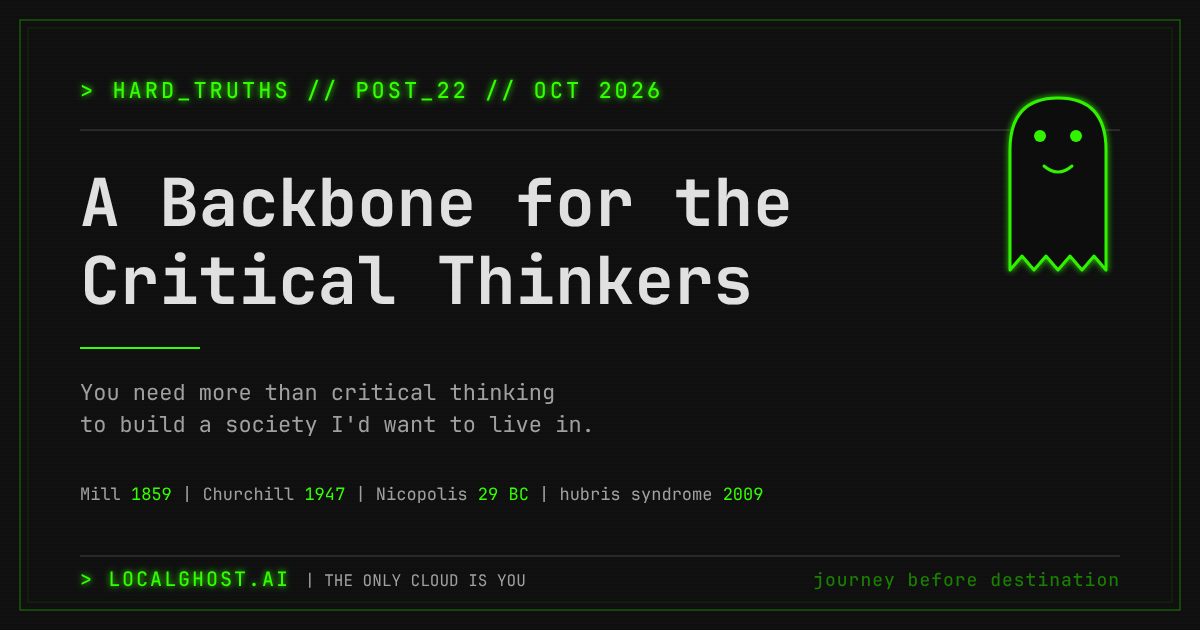
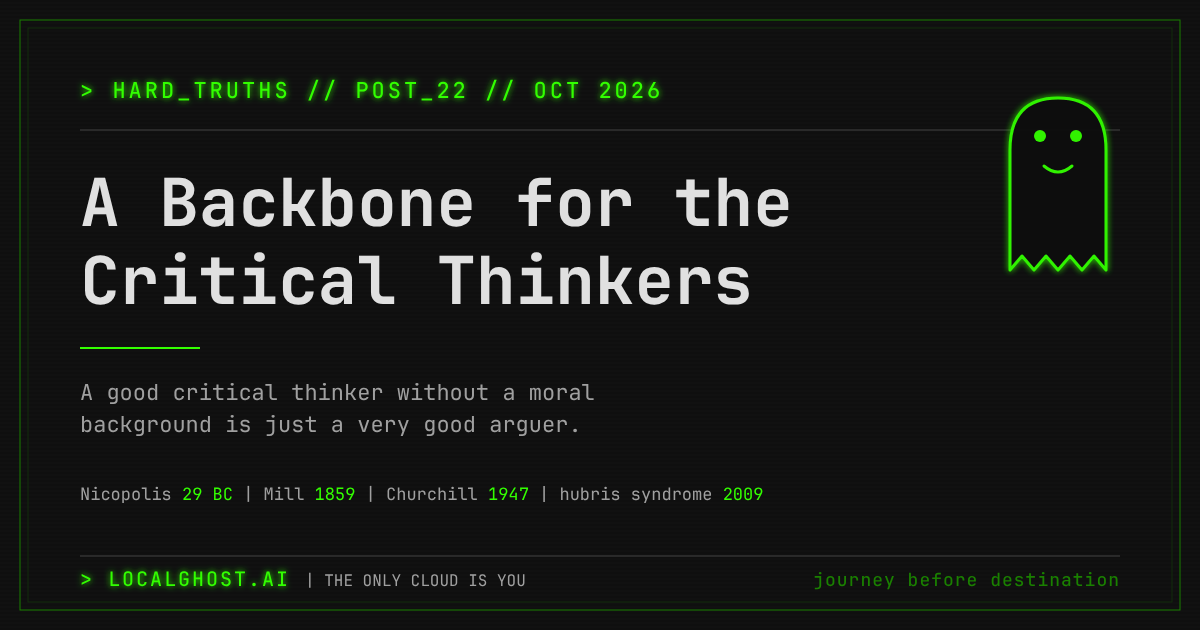
Critical thinkers 2

diff --git a/public/hard-truths/backbone-for-critical-thinkers.html b/public/hard-truths/backbone-for-critical-thinkers.html
@@ -4,10 +4,10 @@
     <meta charset="UTF-8">
     <meta name="viewport" content="width=device-width, initial-scale=1.0">
     <title>A Backbone for the Critical Thinkers | LocalGhost.ai</title>
-    <meta name="description" content="You need more than critical thinking to build a society I'd want to live in. How I want to treat people, where I draw the lines and how to live with it, with Mill, Churchill, Harari and the ruins of Nicopolis.">
+    <meta name="description" content="A good critical thinker without a moral background is just a very good arguer. Notes that started in the ruins of Nicopolis, on what a good dictator would look like and how a society would have to be structured so it didn't need one.">
     <meta name="author" content="Vlad Cealicu">
     <meta name="robots" content="index, follow, max-snippet:-1, max-image-preview:large, max-video-preview:-1">
-    <meta name="keywords" content="critical thinking, ethics, harm principle, democracy, benevolent dictatorship, hubris syndrome, human rights, LocalGhost, Hard Truths">
+    <meta name="keywords" content="critical thinking, ethics, Nicopolis, benevolent dictatorship, hubris syndrome, harm principle, democracy, human rights, five whys, LocalGhost, Hard Truths">
     <meta name="category" content="Society, AI">
     <meta name="language" content="en-GB">
     <link rel="canonical" href="https://www.localghost.ai/hard-truths/backbone-for-critical-thinkers">
@@ -15,7 +15,7 @@
     <meta property="og:type" content="article">
     <meta property="og:url" content="https://www.localghost.ai/hard-truths/backbone-for-critical-thinkers">
     <meta property="og:title" content="A Backbone for the Critical Thinkers | LocalGhost Hard Truths">
-    <meta property="og:description" content="You need more than critical thinking to build a society I'd want to live in. A benevolent dictatorship breaks when power accumulates, which it always tends to, and human rights exist because we want them to exist.">
+    <meta property="og:description" content="A good critical thinker without a moral background is just a very good arguer. A benevolent dictatorship breaks when power accumulates, which it always tends to, so how would a society have to be structured so it didn't need one?">
     <meta property="og:image" content="https://www.localghost.ai/images/og-backbone-for-critical-thinkers.png">
     <meta property="og:image:width" content="1200">
     <meta property="og:image:height" content="630">
@@ -27,16 +27,16 @@
     <meta property="article:section" content="Hard Truths">
     <meta property="article:tag" content="critical thinking">
     <meta property="article:tag" content="ethics">
+    <meta property="article:tag" content="dictatorship">
     <meta property="article:tag" content="democracy">
-    <meta property="article:tag" content="human rights">
     <meta property="article:tag" content="hubris">
     <meta property="article:tag" content="LocalGhost">
-    <meta property="article:reading_time" content="5">
+    <meta property="article:reading_time" content="9">
     <meta name="twitter:card" content="summary_large_image">
     <meta name="twitter:site" content="@localghostai">
     <meta name="twitter:creator" content="@vladcealicu">
     <meta name="twitter:title" content="A Backbone for the Critical Thinkers">
-    <meta name="twitter:description" content="You need more than critical thinking to build a society I'd want to live in. Asking why five times and spotting the leap in an argument make you a very good arguer, and the rest is closer to ethics.">
+    <meta name="twitter:description" content="A good critical thinker without a moral background is just a very good arguer. Notes that started in the ruins of Nicopolis, thinking about dictators.">
     <meta name="twitter:image" content="https://www.localghost.ai/images/og-backbone-for-critical-thinkers.png">
     <meta name="twitter:image:alt" content="A Backbone for the Critical Thinkers, LocalGhost Hard Truths">
     <meta name="fediverse:creator" content="@vladcealicu">
@@ -50,7 +50,7 @@
         "@context": "https://schema.org",
         "@type": "BlogPosting",
         "headline": "A Backbone for the Critical Thinkers",
-        "description": "You need more than critical thinking to build a society I'd want to live in. A benevolent dictatorship breaks when power accumulates, which it always tends to, and human rights exist because we want them to exist.",
+        "description": "A good critical thinker without a moral background is just a very good arguer. A benevolent dictatorship breaks when power accumulates, which it always tends to, so how would a society have to be structured so it didn't need one?",
         "author": {
             "@type": "Person",
             "@id": "https://www.localghost.ai/about#vlad-cealicu",
@@ -82,9 +82,9 @@
             "width": 1200,
             "height": 630
         },
-        "keywords": "critical thinking, ethics, harm principle, democracy, benevolent dictatorship, hubris syndrome, human rights, LocalGhost, Hard Truths",
+        "keywords": "critical thinking, ethics, Nicopolis, benevolent dictatorship, hubris syndrome, harm principle, democracy, human rights, five whys, LocalGhost, Hard Truths",
         "articleSection": "Hard Truths",
-        "wordCount": 906,
+        "wordCount": 1711,
         "inLanguage": "en-GB",
         "isPartOf": {
             "@id": "https://www.localghost.ai/hard-truths#blog"
@@ -126,6 +126,7 @@
         .backbone { margin: 1.25rem 0 1.75rem; padding-left: 0; list-style: none; counter-reset: bb; }
         .backbone li { counter-increment: bb; margin-bottom: 0.9rem; padding-left: 2.4rem; position: relative; line-height: 1.75; }
         .backbone li::before { content: counter(bb) "."; position: absolute; left: 0; top: 0.15rem; color: var(--terminal); font-family: var(--font-mono); font-size: 0.85rem; }
+        .backbone .why { display: block; margin-top: 0.4rem; color: var(--text-dim); }
     </style>
 </head>
 <body>
@@ -155,7 +156,7 @@
     <div class="manifesto-text">
 
         <div class="statement-box">
-            <p class="statement-main">You need more than critical thinking to build a society I'd want to live in.</p>
+            <p class="statement-main">A good critical thinker without a moral background is just a very good arguer.</p>
         </div>
 
         <div class="podcast-player"
@@ -182,59 +183,110 @@
         </div>
 
         <p>
-            When I wrote down what I mean by critical thinking for <a href="/hard-truths/age-that-needs-critical-thinkers">The Age That Needs Critical Thinkers</a>, I ended up with a long list, and most of it wasn't critical thinking at all. It only made sense to write when I realised that you need more than critical thinking to build a society I'd want to live in. Asking why five times and spotting the leap in an argument are ways to think, and on their own they make you a very good arguer. The rest is closer to ethics, or to a way to live in a world where fewer people go to church, be it lack of time or not believing, and where AI sits next to all of us while we think.
+            In September I was in Preveza, and I went to see the ruins of Nicopolis, the city Octavian founded to celebrate his win at Actium, a few years before he became Augustus, the first Roman emperor <a href="#ref-1" class="cite">[1]</a>. Walking around it I was thinking about dictators, and I started writing notes on what a good dictator would look like, then on how a society would have to be structured so it didn't need one, and on the morals that would hold it together.
         </p>
-        <h2 class="section-header">&gt; 1. How I want to treat people</h2>
-        <ol class="backbone">
-            <li>Kindness and charity.</li>
-            <li>A temporary fix with a long-term plan behind it that deals with the root cause.</li>
-            <li>Understanding that we succeed together, and that leaders wouldn't be leaders without everyone else working hard to make their vision real.</li>
-            <li>Treating other people with respect regardless of who they are, and doing to others as you'd want done to you, without necessarily going to church every week, or ever.</li>
-            <li>Avoiding, as much as possible, doing things that harm or disrupt other people, while giving them the privacy to do whatever they want in their own lives under the same rule. John Stuart Mill wrote it down in 1859, "the only purpose for which power can be rightfully exercised over any member of a civilised community, against his will, is to prevent harm to others" <a href="#ref-1" class="cite">[1]</a>.</li>
-            <li>Leaving room for people who argue for things completely against what you believe, and trusting that a society with a strong critical thinking backbone can choose correctly.</li>
-        </ol>
-        <h2 class="section-header">&gt; 2. Where I draw the lines</h2>
-        <ol class="backbone">
-            <li>Strong moral values, and an open mind that still has lines it won't cross.</li>
-            <li>Accepting that we need regulation to protect us from predatory practices while we build up our critical thinking.</li>
-            <li>On paper the best system of governance is a benevolent dictatorship, because it allows a quick response to a world that changes fast, but that's only because the general population was never expected to develop critical thinking and was expected to follow the rules. In real life it breaks when power accumulates, which it always tends to, sometimes within a few years and sometimes over a generation. A dictator ends up building their own dictator brain out of people who only tell them they're right (the AI version of the same loop is in <a href="/hard-truths/dictator-brain">How to Prevent Building Your Own Dictator Brain</a>). It's funny, because I was writing the notes for this in September in Preveza, which happens to be where Rome's emperors started. I went to see the ruins of Nicopolis, the city Octavian founded to celebrate his win at Actium, a few years before he became Augustus, the first of them <a href="#ref-2" class="cite">[2]</a>. Rome's five good emperors later handed power on by adoption until the fifth, Marcus Aurelius, left it to his son Commodus, whose reign is usually taken as the end of the Pax Romana <a href="#ref-3" class="cite">[3]</a>. It happens to elected leaders too. David Owen and Jonathan Davidson went through a hundred years of US presidents and UK prime ministers and suggested a name for what they found, hubris syndrome, "a disorder of the possession of power", particularly power "held for a period of years and with minimal constraint on the leader" <a href="#ref-4" class="cite">[4]</a>.</li>
-            <li>Choosing democracy anyway because, even with low critical thinking, it's still better in the long term. Churchill made the case for it in the House of Commons in 1947, "democracy is the worst form of Government except for all those other forms that have been tried from time to time", and presented it as something that had been said before <a href="#ref-5" class="cite">[5]</a>.</li>
-            <li>Human rights exist because we want them to exist. We believe in them because we choose to, and the choosing is what makes them real. Yuval Noah Harari puts it as "There are no gods in the universe, no nations, no money, no human rights, no laws, and no justice outside the common imagination of human beings" <a href="#ref-6" class="cite">[6]</a>.</li>
-        </ol>
-        <h2 class="section-header">&gt; 3. How to live with it</h2>
-        <ol class="backbone">
-            <li>Knowing that the world is broken, that it always has been and that your impact will be small, and still doing something.</li>
-            <li>Fighting when you know you're the underdog.</li>
-            <li>Trying, even though "you can be anything you put your mind to" is bullshit.</li>
-            <li>Working hard, knowing it's a big part of success but not the only part.</li>
-            <li>Knowing that sometimes your sacrifice is the best way forward, and knowing when to take a step back.</li>
-            <li>Finding meaning and joy in just existing, journey before destination, as the Knights Radiant swear in Brandon Sanderson's <em>The Way of Kings</em> <a href="#ref-7" class="cite">[7]</a>.</li>
-        </ol>
-        <h2 class="section-header">&gt; 4. Is this still critical thinking?</h2>
         <p>
-            Only some of this is critical thinking, and a lot of it is borrowed, from Mill, Churchill, Harari and the golden rule. I'm putting it together because I think it works better as one thing than as separate pieces.
+            I didn't know it would tie up with critical thinking until after I wrote <a href="/hard-truths/age-that-needs-critical-thinkers">The Age That Needs Critical Thinkers</a>. Reading the notes again, I realised that a good critical thinker without a moral background is just a very good arguer. Asking why five times and spotting the leap in an argument are ways to think, and they don't tell you what's worth arguing for. You need more than critical thinking to build a society I'd want to live in, and the rest of the notes are closer to ethics, or to a way to live in a world where fewer people go to church, be it lack of time or not believing, and where AI sits next to all of us while we think.
         </p>
+        <h2 class="section-header">&gt; What would a good dictator look like?</h2>
+        <p>
+            On paper the best system of governance is a benevolent dictatorship, because it allows a quick response to a world that changes fast, but that's only because the general population was never expected to develop critical thinking and was expected to follow the rules. The good dictator in my notes was kind, had strong moral values, and dealt with the root cause of a problem while a temporary fix held things together.
+        </p>
+        <p>
+            In real life it breaks when power accumulates, which it always tends to, sometimes within a few years and sometimes over a generation. A dictator ends up building their own dictator brain out of people who only tell them they're right (the AI version of the same loop is in <a href="/hard-truths/dictator-brain">How to Prevent Building Your Own Dictator Brain</a>). Rome's five good emperors handed power on by adoption until the fifth, Marcus Aurelius, left it to his son Commodus, whose reign is usually taken as the end of the Pax Romana <a href="#ref-2" class="cite">[2]</a>. It happens to elected leaders too. David Owen and Jonathan Davidson went through a hundred years of US presidents and UK prime ministers and suggested a name for what they found, hubris syndrome, "a disorder of the possession of power", particularly power "held for a period of years and with minimal constraint on the leader" <a href="#ref-3" class="cite">[3]</a>.
+        </p>
+        <p>
+            So the notes turned into how a society would have to be structured so it didn't need a dictator, good or bad, and most of what I'd wanted from the good one became things I'd want from everyone.
+        </p>
+        <h2 class="section-header">&gt; How I want to treat people</h2>
+        <ol class="backbone">
+            <li>Kindness and charity.
+                <span class="why">It costs very little, and most of the time it comes back. Charity is the same thing with time or money, for people you'll probably never meet, and a society where enough people do both needs a lot less from whoever is in charge.</span>
+            </li>
+            <li>A temporary fix with a long-term plan behind it that deals with the root cause.
+                <span class="why">Most problems need something done today, and a fix for today is fine as long as someone is working on why it happened. Without the plan you end up fixing the same thing every year, and the people paying for it stop believing anything will change.</span>
+            </li>
+            <li>Understanding that we succeed together, and that leaders wouldn't be leaders without everyone else working hard to make their vision real.
+                <span class="why">Nothing I planned at CryptoCompare would have shipped without the team that built it with me. A leader who forgets that starts to think the success is theirs alone, and that's where hubris starts.</span>
+            </li>
+            <li>Treating other people with respect regardless of who they are, and doing to others as you'd want done to you, without necessarily going to church every week, or ever.
+                <span class="why">The golden rule shows up in a lot of religions in one form or another, and you don't need to believe in any of them to see why it works. If enough of us treat people the way we'd want to be treated, we don't need someone above us to enforce it.</span>
+            </li>
+            <li>Avoiding, as much as possible, doing things that harm or disrupt other people, while giving them the privacy to do whatever they want in their own lives under the same rule. John Stuart Mill wrote it down in 1859, "the only purpose for which power can be rightfully exercised over any member of a civilised community, against his will, is to prevent harm to others" <a href="#ref-4" class="cite">[4]</a>.
+                <span class="why">The hard part is agreeing on what counts as harm, and I'd rather we argue about that in the open than have one person decide it for everyone.</span>
+            </li>
+            <li>Leaving room for people who argue for things completely against what you believe, and trusting that a society with a strong critical thinking backbone can choose correctly.
+                <span class="why">That also means accepting that sometimes they'll win the vote, and living with it until you can make a better case.</span>
+            </li>
+        </ol>
+        <h2 class="section-header">&gt; Where I draw the lines</h2>
+        <ol class="backbone">
+            <li>Strong moral values, and an open mind that still has lines it won't cross.
+                <span class="why">An open mind with no lines can be argued into anything, and that's what a very good arguer does to people. You decide the lines before the argument starts, so you're not deciding them while someone is pushing.</span>
+            </li>
+            <li>Accepting that we need regulation to protect us from predatory practices while we build up our critical thinking.
+                <span class="why">I don't like asking anyone's permission and I build things so other people don't have to, but some companies make their money from people who can't tell yet that they're being played, and until most of us can, the rules have to do some of that work.</span>
+            </li>
+            <li>Choosing democracy anyway because, even with low critical thinking, it's still better in the long term. Churchill made the case for it in the House of Commons in 1947, "democracy is the worst form of Government except for all those other forms that have been tried from time to time", and presented it as something that had been said before <a href="#ref-5" class="cite">[5]</a>.
+                <span class="why">It's slow and it gets things wrong, but it lets you remove the people who got it wrong without a war, and a benevolent dictatorship has no way to do that.</span>
+            </li>
+            <li>Human rights exist because we want them to exist. We believe in them because we choose to, and the choosing is what makes them real. Yuval Noah Harari puts it as "There are no gods in the universe, no nations, no money, no human rights, no laws, and no justice outside the common imagination of human beings" <a href="#ref-6" class="cite">[6]</a>.
+                <span class="why">That also means they only last while enough of us keep choosing them, which is a good reason to teach in school where they came from.</span>
+            </li>
+        </ol>
+        <h2 class="section-header">&gt; How to live with it</h2>
+        <ol class="backbone">
+            <li>Knowing that the world is broken, that it always has been and that your impact will be small, and still doing something.
+                <span class="why">I know LocalGhost won't be popular and it's mostly for me, but I'm building it anyway. If everyone waited until their part looked big enough, nobody would start.</span>
+            </li>
+            <li>Fighting when you know you're the underdog.
+                <span class="why">The people who have power rarely give it up because someone asked nicely, so someone has to start pushing before it looks like they could win.</span>
+            </li>
+            <li>Trying, even though "you can be anything you put your mind to" is bullshit.
+                <span class="why">Where you're born, your health and your luck all matter, and pretending they don't makes people blame themselves for things they couldn't control. You try anyway, and you're honest with yourself about what was in your hands.</span>
+            </li>
+            <li>Working hard, knowing it's a big part of success but not the only part.
+                <span class="why">I've been lucky and I've worked hard, and I don't know in what percentage each one contributed.</span>
+            </li>
+            <li>Knowing that sometimes your sacrifice is the best way forward, and knowing when to take a step back.
+                <span class="why">Holding on is the default, and hubris syndrome is what it looks like when nobody steps back.</span>
+            </li>
+            <li>Finding meaning and joy in just existing, journey before destination, as the Knights Radiant swear in Brandon Sanderson's <em>The Way of Kings</em> <a href="#ref-7" class="cite">[7]</a>.
+                <span class="why">If the meaning only comes at the end, most of life is spent waiting for it.</span>
+            </li>
+        </ol>
+        <h2 class="section-header">&gt; Asking why five times</h2>
+        <p>
+            Only some of this is critical thinking, and a lot of it is borrowed, from Mill, Churchill, Harari and the golden rule. I'm putting it together because I think it works better as one thing than as separate pieces, and critical thinking is how you test each piece. In <a href="/hard-truths/age-that-needs-critical-thinkers">The Age That Needs Critical Thinkers</a> I said it starts with asking why, five times at least, so here it is on the last item from the first list, leaving room for people who argue for things completely against what you believe.
+        </p>
+        <ol class="backbone">
+            <li>Why leave them room? Because I might be wrong, and they might be the only ones who'd tell me.</li>
+            <li>Why might I be wrong? Because I only see the part of the world I live in, and so does everyone else.</li>
+            <li>Why does it matter who tells me? Because without anyone saying no, I'd slowly start believing I'm right about everything.</li>
+            <li>Why is that a problem? Because it's the same loop as the dictator brain, and it's how hubris starts, in a leader or in anyone with a bit of power.</li>
+            <li>Why does that matter for a society? Because a society that shuts out the people it disagrees with builds a dictator brain for the whole country, and then it's back to hoping for a good dictator.</li>
+        </ol>
         <div class="final-words">
-            I might be wrong about some of it, and part of critical thinking is being open to being persuaded, so if you think I am, reach out at <a href="mailto:me@vladcealicu.com">me@vladcealicu.com</a>. If someone has already written all of this down in one place, I'd like to read it.
+            I'll leave the rest of the list to you. Pick one and ask why five times. I might be wrong about some of it, and part of critical thinking is being open to being persuaded, so if you end up somewhere different, reach out at <a href="mailto:me@vladcealicu.com">me@vladcealicu.com</a>. If someone has already written all of this down in one place, I'd like to read it.
             <span class="small">[ localghost.ai // hard-truths ]</span>
         </div>
 
         <h2 class="section-header">&gt; REFERENCES</h2>
 
         <p class="references" id="ref-1">
-            <strong>[1]</strong> John Stuart Mill, 1859, "On Liberty", chapter I. Source for the harm principle, "the only purpose for which power can be rightfully exercised over any member of a civilised community, against his will, is to prevent harm to others". <a href="https://socialsci.libretexts.org/Courses/Western_Washington_University/Introduction_to_Political_Theory_I/01%3A_Readings/1.11%3A_John_Stuart_Mill__Excerpts_from_On_Liberty_1859" target="_blank" rel="noopener">socialsci.libretexts.org</a>.
+            <strong>[1]</strong> Wikipedia, "Nicopolis" and "Augustus". Source for Octavian founding Nicopolis, "City of Victory", in 29 BC to commemorate his defeat of Mark Antony and Cleopatra at Actium in 31 BC, its ruins about 5 km north of modern Preveza, and Octavian taking the name Augustus as Rome's first emperor in 27 BC. <a href="https://en.wikipedia.org/wiki/Nicopolis" target="_blank" rel="noopener">en.wikipedia.org/wiki/Nicopolis</a> and <a href="https://en.wikipedia.org/wiki/Augustus" target="_blank" rel="noopener">en.wikipedia.org/wiki/Augustus</a>.
         </p>
 
         <p class="references" id="ref-2">
-            <strong>[2]</strong> Wikipedia, "Nicopolis" and "Augustus". Source for Octavian founding Nicopolis, "City of Victory", in 29 BC to commemorate his defeat of Mark Antony and Cleopatra at Actium in 31 BC, its ruins about 5 km north of modern Preveza, and Octavian taking the name Augustus as Rome's first emperor in 27 BC. <a href="https://en.wikipedia.org/wiki/Nicopolis" target="_blank" rel="noopener">en.wikipedia.org/wiki/Nicopolis</a> and <a href="https://en.wikipedia.org/wiki/Augustus" target="_blank" rel="noopener">en.wikipedia.org/wiki/Augustus</a>.
+            <strong>[2]</strong> Wikipedia, "Commodus". Source for Marcus Aurelius as the fifth of the Five Good Emperors, each of whom had adopted his successor, Commodus as the first emperor born in the purple to succeed, his sole reign from 180 to his assassination on 31 December 192, the reign being commonly thought to mark the end of the Pax Romana, and Cassius Dio's "from a kingdom of gold to one of iron and rust". <a href="https://en.wikipedia.org/wiki/Commodus" target="_blank" rel="noopener">en.wikipedia.org/wiki/Commodus</a>.
         </p>
 
         <p class="references" id="ref-3">
-            <strong>[3]</strong> Wikipedia, "Commodus". Source for Marcus Aurelius as the fifth of the Five Good Emperors, each of whom had adopted his successor, Commodus as the first emperor born in the purple to succeed, his sole reign from 180 to his assassination on 31 December 192, the reign being commonly thought to mark the end of the Pax Romana, and Cassius Dio's "from a kingdom of gold to one of iron and rust". <a href="https://en.wikipedia.org/wiki/Commodus" target="_blank" rel="noopener">en.wikipedia.org/wiki/Commodus</a>.
+            <strong>[3]</strong> David Owen and Jonathan Davidson, 2009, "Hubris syndrome: An acquired personality disorder? A study of US Presidents and UK Prime Ministers over the last 100 years", Brain 132(5), 1396 to 1406, doi:10.1093/brain/awp008, as reported by the British Psychological Society's Research Digest. Source for the hundred years of leaders and the definition, "a disorder of the possession of power", particularly power "held for a period of years and with minimal constraint on the leader". <a href="https://doi.org/10.1093/brain/awp008" target="_blank" rel="noopener">doi.org/10.1093/brain/awp008</a> and <a href="https://bps.org.uk/research-digest/are-british-politicians-suffering-hubris-syndrome" target="_blank" rel="noopener">bps.org.uk</a>.
         </p>
 
         <p class="references" id="ref-4">
-            <strong>[4]</strong> David Owen and Jonathan Davidson, 2009, "Hubris syndrome: An acquired personality disorder? A study of US Presidents and UK Prime Ministers over the last 100 years", Brain 132(5), 1396 to 1406, doi:10.1093/brain/awp008, as reported by the British Psychological Society's Research Digest. Source for the hundred years of leaders and the definition, "a disorder of the possession of power", particularly power "held for a period of years and with minimal constraint on the leader". <a href="https://doi.org/10.1093/brain/awp008" target="_blank" rel="noopener">doi.org/10.1093/brain/awp008</a> and <a href="https://bps.org.uk/research-digest/are-british-politicians-suffering-hubris-syndrome" target="_blank" rel="noopener">bps.org.uk</a>.
+            <strong>[4]</strong> John Stuart Mill, 1859, "On Liberty", chapter I. Source for the harm principle, "the only purpose for which power can be rightfully exercised over any member of a civilised community, against his will, is to prevent harm to others". <a href="https://socialsci.libretexts.org/Courses/Western_Washington_University/Introduction_to_Political_Theory_I/01%3A_Readings/1.11%3A_John_Stuart_Mill__Excerpts_from_On_Liberty_1859" target="_blank" rel="noopener">socialsci.libretexts.org</a>.
         </p>
 
         <p class="references" id="ref-5">

diff --git a/public/hard-truths.html b/public/hard-truths.html
@@ -298,7 +298,7 @@
                 <span class="post-tag alarm">ALARM</span>
             </div>
             <h2 class="post-title">A Backbone for the Critical Thinkers</h2>
-            <p class="post-excerpt">When I wrote down what I mean by critical thinking, I ended up with a long list, and most of it wasn't critical thinking at all. It only made sense to write when I realised that you need more than critical thinking to build a society I'd want to live in.</p>
+            <p class="post-excerpt">In September I was in Preveza, and I went to see the ruins of Nicopolis, the city Octavian founded to celebrate his win at Actium. Walking around it I was thinking about dictators, and I started writing notes on what a good dictator would look like, then on how a society would have to be structured so it didn't need one.</p>
             <span class="post-arrow">[ READ → ]</span>
         </a>
 
